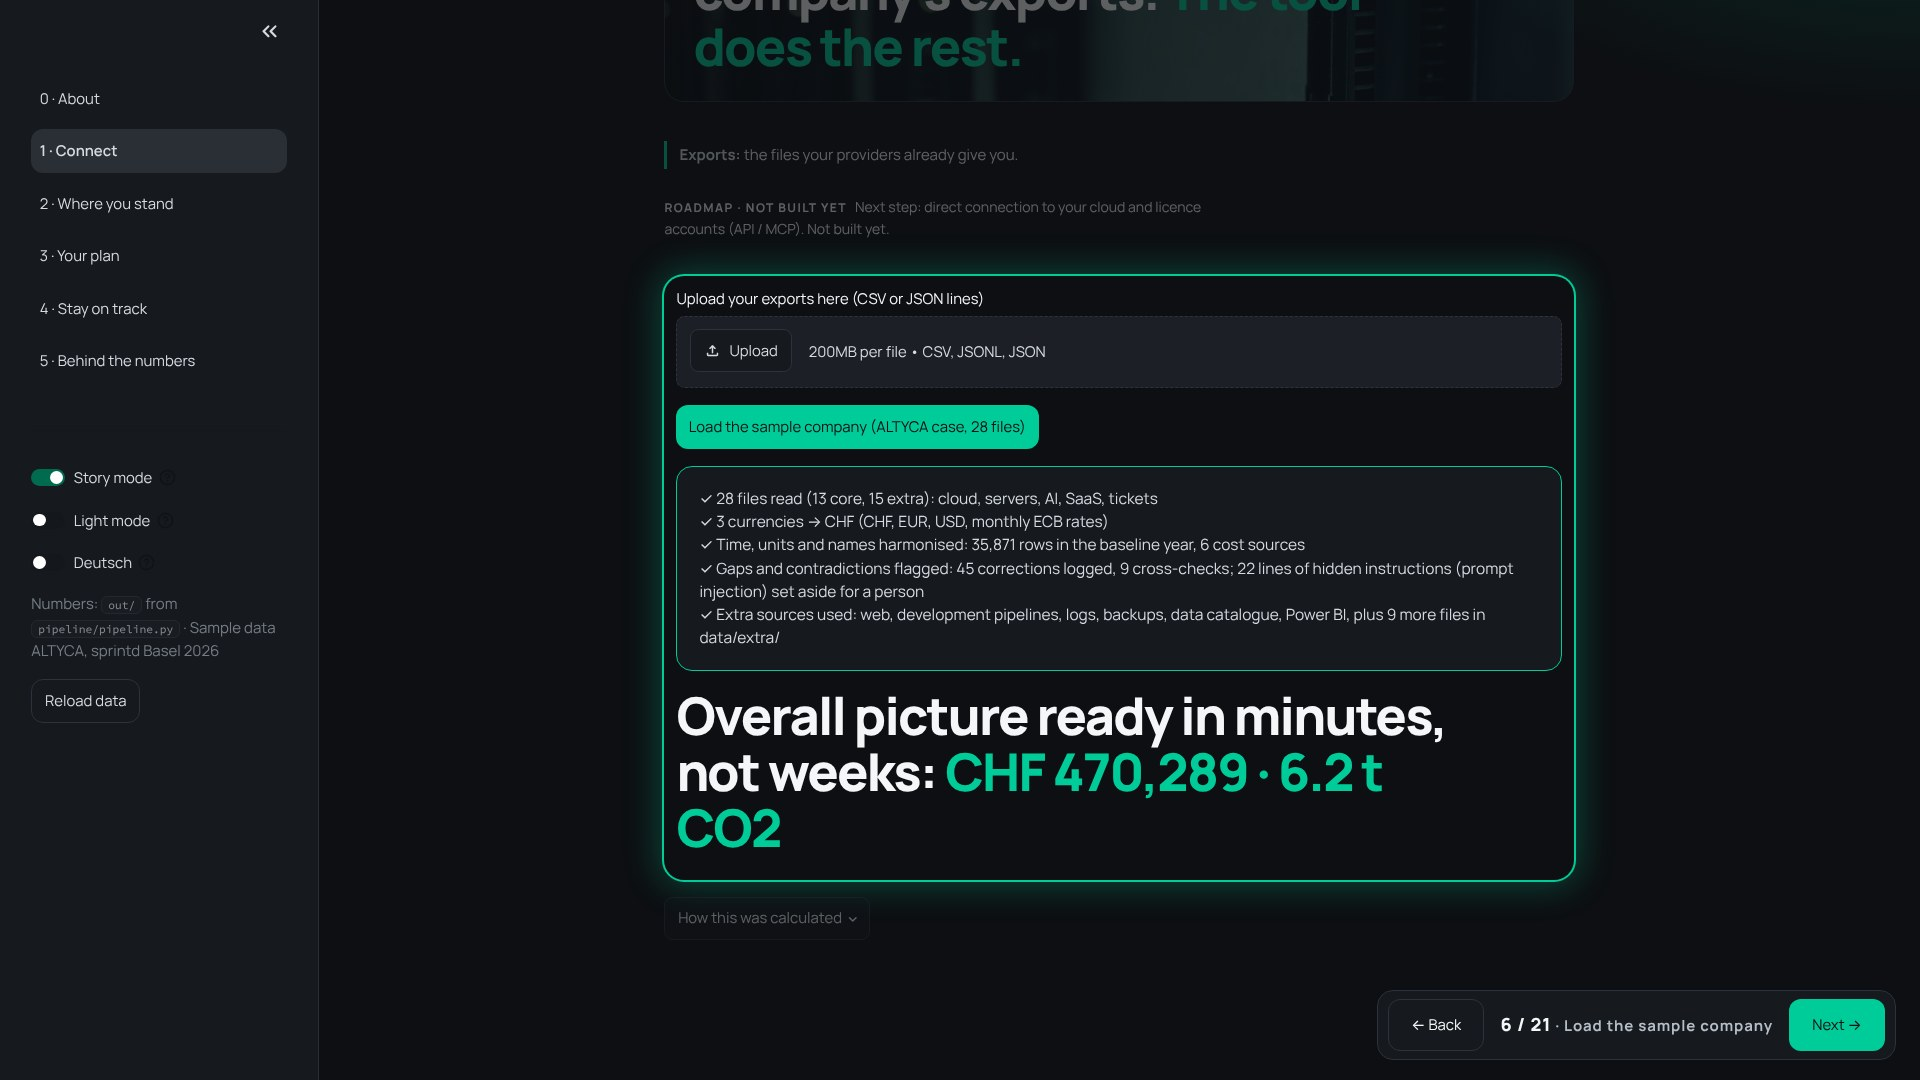
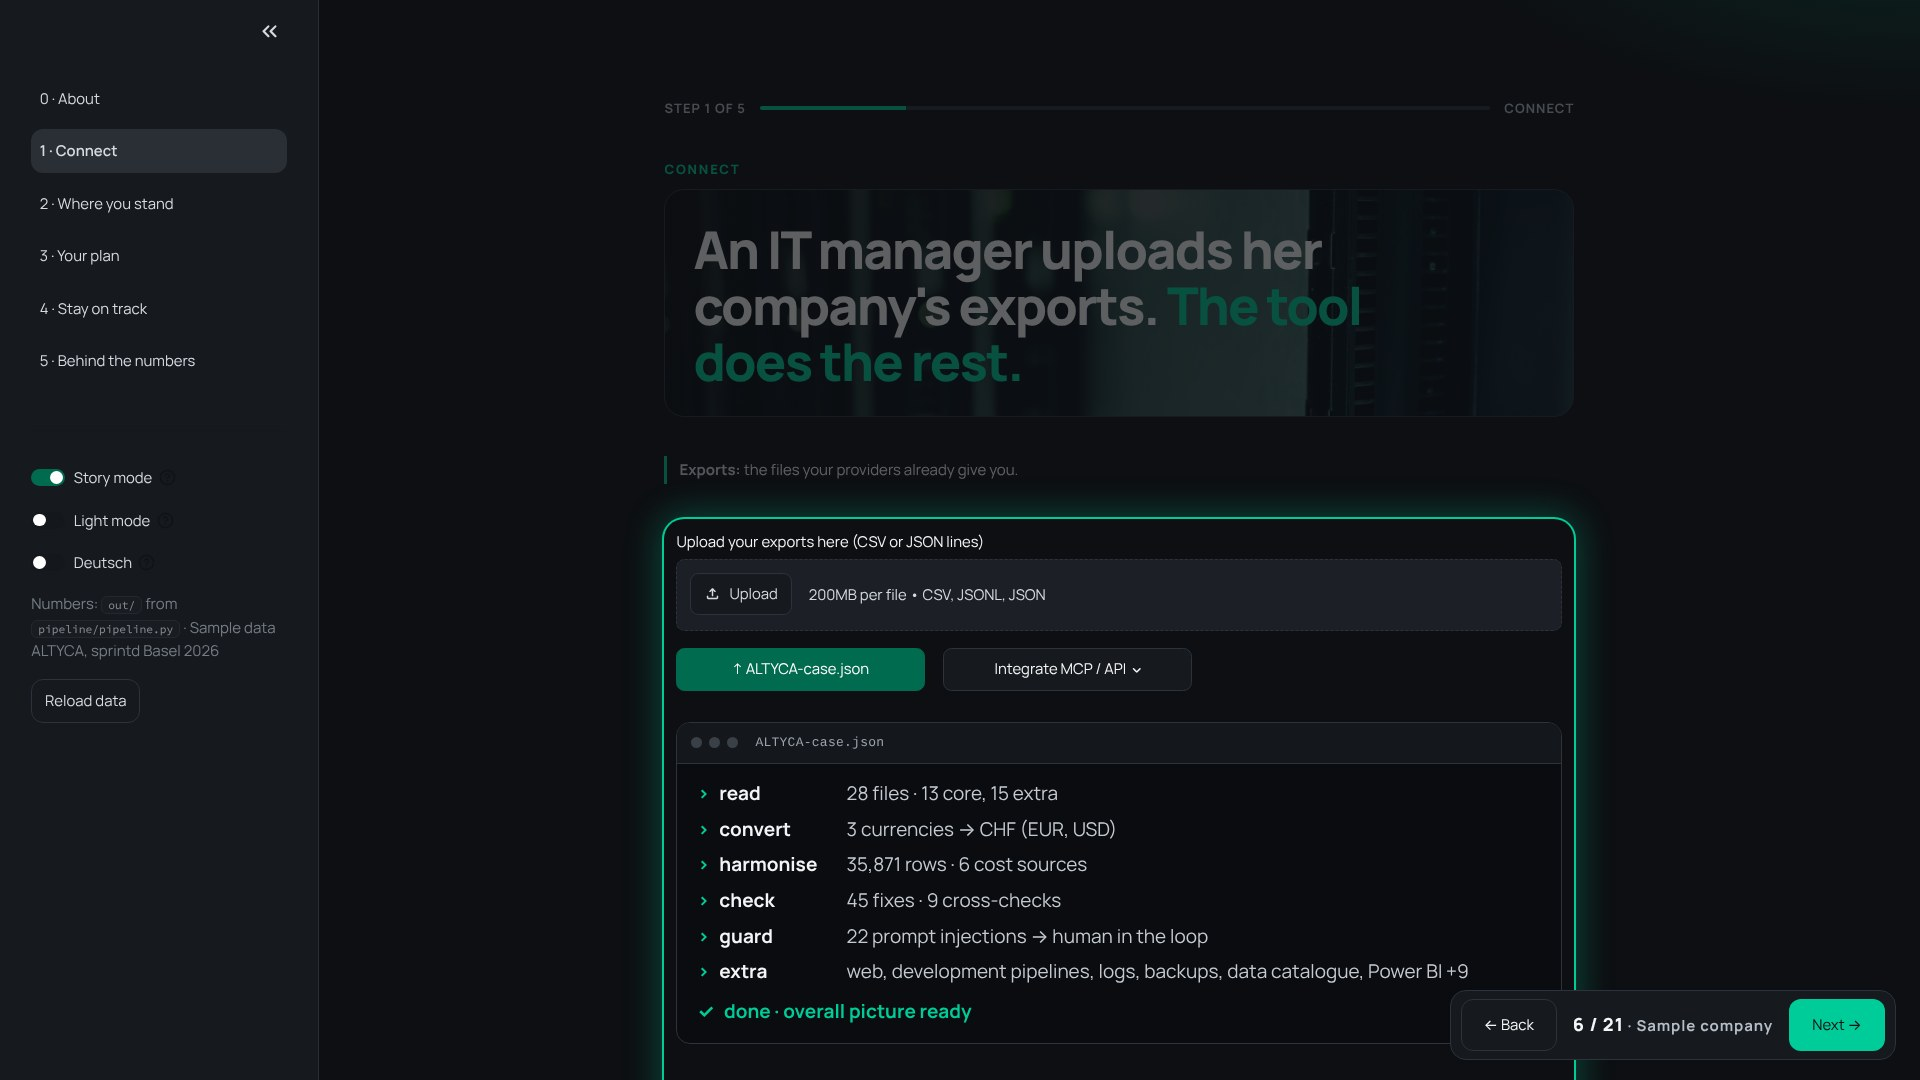
Connect: terminal-style result, short sample button, MCP / API roadmap button, numbers on one line
- The five-line checklist becomes a terminal block (> read / convert / harmonise / check / guard / extra, done),
  big mono type, same numbers from data.connect_stats().
- «Load the sample company (ALTYCA case, 28 files)» → «↑ ALTYCA-case.json» next to the upload box.
- «Integrate MCP / API» button opens a note: Roadmap · not built yet (no connector, no fake action).
- «CHF 470,289 · 6.2 t CO2» on its own line, never split.
- Popover panels readable in dark and light mode.

Claude-Session: https://claude.ai/code/session_01X3xYSMquWVTkknJRvK9B19

diff --git a/app/app.py b/app/app.py
@@ -1064,7 +1064,6 @@ def page_connect() -> None:
     with st.container(key="beat_connect_hero"):
         ui.hero("", "An IT manager uploads her company's exports. <em>The tool does the rest.</em>", photo="connect")
         ui.explain("Exports:", "the files your providers already give you.")
-        ui.roadmap_note("Next step: direct connection to your cloud and licence accounts (API / MCP). Not built yet.")
     run = st.container(key="beat_connect_run")
     run.__enter__()
     up = st.file_uploader("Upload your exports here (CSV or JSON lines)", accept_multiple_files=True,
@@ -1072,8 +1071,13 @@ def page_connect() -> None:
     if up:
         st.info(f"Preview only: {len(up)} file(s) received and listed, not processed in this prototype. "
                 "The numbers below come from the sample company.")
-    n_files = data.connect_stats()["files"]
-    clicked = st.button(f"Load the sample company (ALTYCA case, {n_files} files)", type="primary", key="connect_load")
+    b1, b2, _ = st.columns([1, 1, 1.4], vertical_alignment="center")
+    # The arrow points up at the upload box: the sample company is used as if its exports were dropped there.
+    clicked = b1.button("↑ ALTYCA-case.json", type="primary", key="connect_load", width="stretch",
+                        help="Load the sample company: the ALTYCA case exports")
+    with b2.popover("Integrate MCP / API", width="stretch"):
+        st.markdown("**Roadmap · not built yet.**\n\nNext step: direct connection to your cloud and licence accounts "
+                    "(API / MCP). Not built yet. Today: upload the exports above.")
     if clicked:
         st.session_state["connected"] = True
     if not st.session_state.get("connected") or not out_ready():
@@ -1082,21 +1086,21 @@ def page_connect() -> None:
         return
     c = data.connect_stats()
     e = data.energy_totals()
+    foreign = [x for x in c["currencies"] if x != "CHF"]
     steps = [
-        f"{c['files']} files read ({c['core']} core, {c['extra']} extra): cloud, servers, AI, SaaS, tickets",
-        f"{len(c['currencies'])} currencies → CHF ({', '.join(c['currencies'])}, monthly ECB rates)",
-        f"Time, units and names harmonised: {c['rows']:,} rows in the baseline year, {c['sources']} cost sources",
-        f"Gaps and contradictions flagged: {c['flags']} corrections logged, {c['contradictions']} cross-checks; "
-        f"{c['planted']} lines of hidden instructions (prompt injection) set aside for a person",
+        ("read", f"{c['files']} files · {c['core']} core, {c['extra']} extra"),
+        ("convert", f"{len(c['currencies'])} currencies → CHF" + (f" ({', '.join(foreign)})" if foreign else "")),
+        ("harmonise", f"{c['rows']:,} rows · {c['sources']} cost sources"),
+        ("check", f"{c['flags']} fixes · {c['contradictions']} cross-checks"),
+        ("guard", f"{c['planted']} prompt injections → human in the loop"),
     ]
     if c.get("extra_kinds"):
         more = int(c.get("extra_more") or 0)
-        tail = f", plus {more} more files in data/extra/" if more else ""
-        steps.append("Extra sources used: " + ", ".join(c["extra_kinds"]) + tail)
-    # The ticks appear one after another by CSS (story.py), so the step stays instant: no sleep, no spinner.
-    st.html('<div class="gx-card accent gx-check">' + "".join(f'<p>✓ {x}</p>' for x in steps) + "</div>")
-    ui.hero("", f"Overall picture ready in minutes, not weeks: <em>CHF {e['cost_chf']:,.0f} · "
-                f"{_tonnes(e['co2_mid'])} t CO2</em>")
+        steps.append(("extra", ", ".join(c["extra_kinds"]) + (f" +{more}" if more else "")))
+    # A terminal look; the lines appear one after another by CSS (story.py), so the step stays instant.
+    st.html(ui.terminal("ALTYCA-case.json", steps, "done · overall picture ready"))
+    ui.hero("", f"Overall picture ready in minutes, not weeks:<br><em>CHF&nbsp;{e['cost_chf']:,.0f} · "
+                f"{_tonnes(e['co2_mid'])}&nbsp;t&nbsp;CO2</em>")
     run.__exit__(None, None, None)
     with st.popover("How this was calculated"):
         st.markdown("Files counted in `data/` and `data/extra/`; rows, currencies and sources from `out/fact_costs.csv`; "

diff --git a/app/ui.py b/app/ui.py
@@ -46,6 +46,20 @@ def esc(text) -> str:
     return _html.escape(str(text))
 
 CSS = """<style>
+[data-testid="stPopoverBody"]{background:var(--card,#16191e) !important;color:var(--ink2,#c4cad1) !important;border:1px solid var(--line,#262b33) !important;}
+[data-testid="stPopoverBody"] p,[data-testid="stPopoverBody"] li,[data-testid="stPopoverBody"] span{color:var(--ink2,#c4cad1) !important;}
+[data-testid="stPopoverBody"] strong,[data-testid="stPopoverBody"] b{color:var(--ink,#f2f4f5) !important;}
+.gx-term{background:#0a0c0f;border:1px solid var(--line,#262b33);border-radius:14px;overflow:hidden;margin:14px 0 22px;
+  font-family:ui-monospace,SFMono-Regular,Menlo,Consolas,"Liberation Mono",monospace;}
+.gx-term .bar{display:flex;align-items:center;gap:7px;padding:10px 14px;background:#14171c;border-bottom:1px solid var(--line,#262b33);}
+.gx-term .bar i{width:11px;height:11px;border-radius:50%;background:#3a4047;display:inline-block;}
+.gx-term .bar span{margin-left:10px;font-size:13px;color:#9aa3ad;letter-spacing:.02em;}
+.gx-term .body{padding:16px 20px 18px;}
+.gx-term p{margin:0 0 8px;font-size:19px;line-height:1.45;color:#c4cad1;}
+.gx-term p b{color:#f2f4f5;font-weight:700;display:inline-block;min-width:6.5em;}
+.gx-term .pr{color:#00cc99;font-weight:700;margin-right:6px;}
+.gx-term p.ok{color:#00cc99;font-weight:700;margin:12px 0 0;}
+@media (max-width:720px){.gx-term p{font-size:15px;}.gx-term p b{min-width:0;margin-right:4px;}.gx-term .body{padding:12px 14px;}}
 .gx-team{display:grid;grid-template-columns:repeat(3,minmax(0,1fr));gap:20px;margin:8px 0 4px;}
 .gx-person{display:flex;flex-direction:column;align-items:center;text-align:center;gap:6px;padding:22px 12px 20px;
   background:var(--card,#16191e);border:1px solid var(--line,#262b33);border-radius:18px;}
@@ -247,6 +261,13 @@ def team(members: list[tuple[str, str]]) -> None:
     cells = "".join(f'<div class="gx-person">{_avatar(n)}<b>{esc(n)}</b><span>{i18n.tr(r)}</span></div>'
                     for n, r in members)
     _raw(f'<div class="gx-team">{cells}</div>')
+
+
+def terminal(title: str, lines: list[tuple[str, str]], done: str) -> str:
+    """A small terminal block: one «> step  detail» line each, a done line at the end. Big mono type, few words."""
+    rows = "".join(f'<p><span class="pr">&gt;</span> <b>{esc(i18n.tr(k))}</b> {esc(v)}</p>' for k, v in lines)
+    return (f'<div class="gx-term gx-check"><div class="bar"><i></i><i></i><i></i><span>{esc(title)}</span></div>'
+            f'<div class="body">{rows}<p class="ok"><span class="pr">✓</span> {esc(i18n.tr(done))}</p></div></div>')
 
 
 def story_bar(step: int, total: int, label: str) -> None:

diff --git a/app/test_app.py b/app/test_app.py
@@ -606,7 +606,7 @@ class StoryTests(unittest.TestCase):
 
     def test_connect_loads_the_sample_company(self):
         page = _open(self._app(), "connect")
-        btn = next(b for b in page.button if b.label.startswith("Load the sample company"))
+        btn = next(b for b in page.button if "ALTYCA-case.json" in b.label)
         page = btn.click().run()
         self.assertFalse(page.exception, page.exception)
         import sys
@@ -616,8 +616,10 @@ class StoryTests(unittest.TestCase):
         self.assertEqual(c["files"], 28)  # 13 core + 15 extra, as the case page says
         self.assertEqual(c["currencies"], ["CHF", "EUR", "USD"])
         blob = " ".join(getattr(el, "value", "") or "" for el in list(page.markdown) + list(getattr(page, "html", [])))
-        self.assertIn("Extra sources used:", blob)
+        self.assertIn("<b>extra</b>", blob)  # terminal line
         self.assertIn("Power BI", blob)
+        self.assertIn(f"{c['files']} files · {c['core']} core, {c['extra']} extra", blob)
+        self.assertIn(f"{c['planted']} prompt injections → human in the loop", blob)
 
     def test_story_buttons(self):
         page = _open(self._app(), "your-plan")
@@ -796,8 +798,9 @@ class CopyConnectRoadmapTests(unittest.TestCase):
         page = _open(at, "connect")
         blob = " ".join(h.proto.body for h in page.get("html"))
         self.assertIn("An IT manager uploads her company", blob)
-        self.assertIn("direct connection to your cloud and licence accounts (API / MCP). Not built yet.", blob)
-        self.assertIn("Roadmap · not built yet", blob)
+        md = " ".join(m.value for m in page.markdown)
+        self.assertIn("direct connection to your cloud and licence accounts (API / MCP). Not built yet.", md)
+        self.assertIn("Roadmap · not built yet", md)
         self.assertFalse(any("connect" in b.label.lower() and "sample" not in b.label.lower() for b in page.button))
 
 

diff --git a/app/story.py b/app/story.py
@@ -34,7 +34,7 @@ BEATS: list[Beat] = [
     Beat(3, "about", "why", "Agent + LCA"),
     Beat(4, "about", "promise", "Promise"),
     Beat(5, "connect", "connect_hero", "Upload"),
-    Beat(6, "connect", "connect_run", "Load the sample company", {"connected": True}),
+    Beat(6, "connect", "connect_run", "Sample company", {"connected": True}),
     Beat(7, "where-you-stand", "stand_numbers", "Where you stand"),
     Beat(8, "where-you-stand", "stand_map", "Location-based"),
     Beat(9, "where-you-stand", "stand_hotspot", "Hotspot 1"),
@@ -119,7 +119,8 @@ def spotlight_css(anchor: str) -> str:
   {a} .gx-check p{{animation:gxTick .35s ease-out both;}}
   {a} .gx-check p:nth-child(1){{animation-delay:.05s}} {a} .gx-check p:nth-child(2){{animation-delay:.25s}}
   {a} .gx-check p:nth-child(3){{animation-delay:.45s}} {a} .gx-check p:nth-child(4){{animation-delay:.65s}}
-  {a} .gx-check p:nth-child(5){{animation-delay:.85s}}
+  {a} .gx-check p:nth-child(5){{animation-delay:.85s}} {a} .gx-check p:nth-child(6){{animation-delay:1.0s}}
+  {a} .gx-check p:nth-child(7){{animation-delay:1.15s}}
   {a} div[role="img"]{{animation:gxDraw 1.1s cubic-bezier(.3,.6,.2,1) both;}}
   {a} .gx-card.spot{{animation:gxPulse 1.1s ease-out both;}}
   {a} [data-testid="stChatMessage"]{{animation:gxType .6s steps(28,end) both;}}
